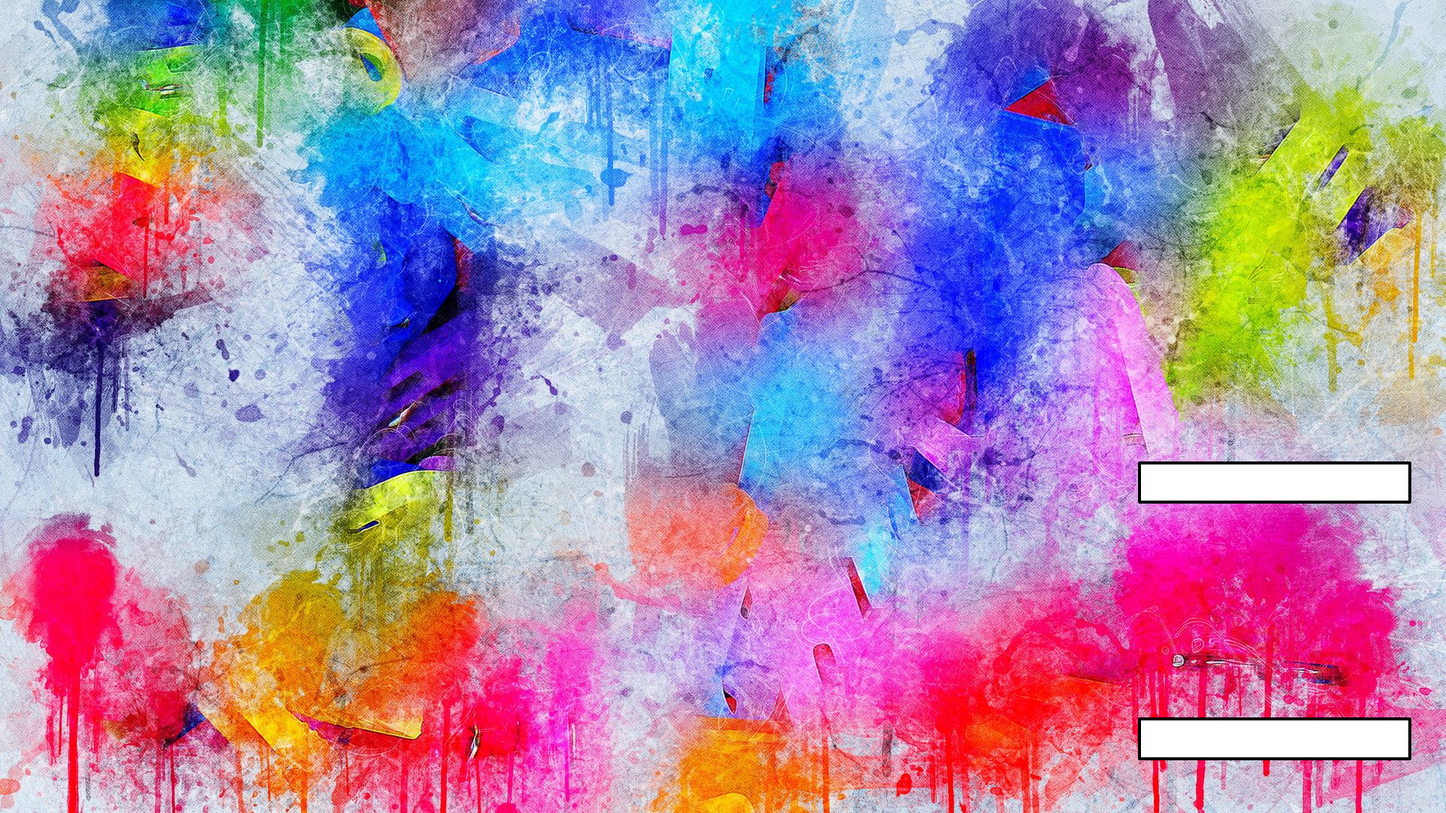
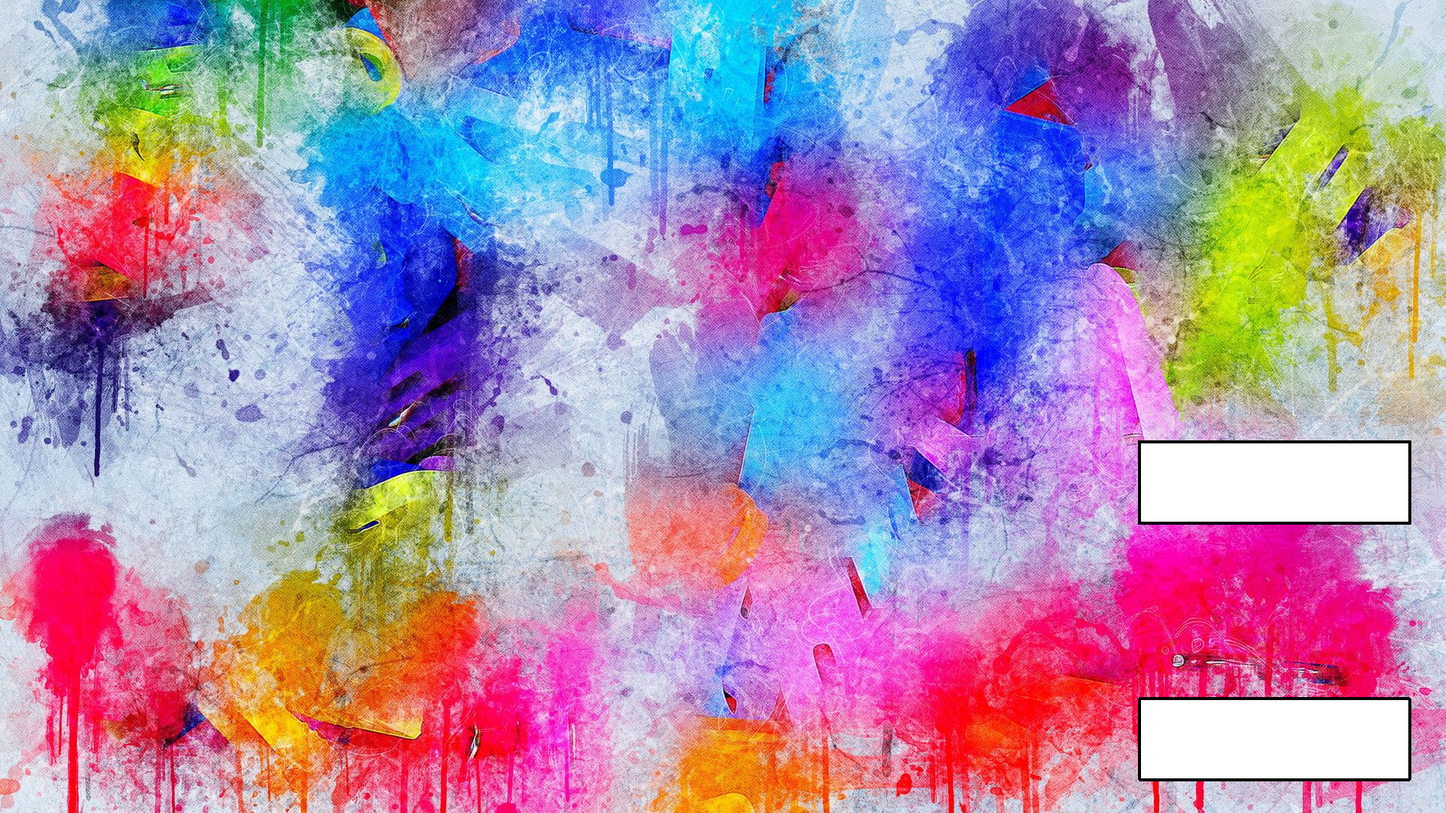
improved AI added

diff --git a/config/Boss.java b/config/Boss.java
@@ -4,21 +4,87 @@ import java.util.Random;
 import java.util.Scanner;
 
 class Player {
+    static char[][] map;
+    static int maxDist;
+    static char co;
+    private static boolean tryShootDir(int fuel, int x, int y, int dirX, int dirY){
+        int range = Math.min(maxDist,fuel);
+        x=x+2*dirX; y = y+2*dirY;
+        try {
+            for (int i = 0; i < range; i++) {
+                if (map[x][y] == 'X')return false;
+                if(map[x][y] != co && map[x][y] != '.')return true;
+                x+=dirX;y+=dirY;
+            }
+        }catch (Exception e){
+            return false;
+        }
+        return false;
+    }
+
+    private static boolean tryShoot(int id, int fuel, int x, int y){
+        if(tryShootDir(fuel,x,y,1,0)){
+            System.out.printf("SHOOT %d 2 %d%n",id,fuel);
+            return true;
+        }
+        if(tryShootDir(fuel,x,y,-1,0)){
+            System.out.printf("SHOOT %d 1 %d%n",id,fuel);
+            return true;
+        }
+        if(tryShootDir(fuel,x,y,0,1)){
+            System.out.printf("SHOOT %d 4 %d%n",id,fuel);
+            return true;
+        }
+        if(tryShootDir(fuel,x,y,0,-1)){
+            System.out.printf("SHOOT %d 3 %d%n",id,fuel);
+            return true;
+        }
+        return false;
+    }
+
+    private static boolean isValidMove(int x, int y, int dirX, int dirY){
+        x+=2*dirX;
+        y+=2*dirY;
+        try {
+            if (dirX == 0) {
+                return map[x][y] != 'X' && map[x + 1][y] != 'X' && map[x - 1][y] != 'X';
+            } else {
+                return map[x][y] != 'X' && map[x][y + 1] != 'X' && map[x][y - 1] != 'X';
+            }
+        }catch (Exception e){
+            return false;
+        }
+    }
+    private static void move(int id,int x,int y){
+        if(isValidMove(x,y, 0,co == '1'?1:-1)){
+            System.out.printf("MOVE %d %d%n",id,co == '1'? 4:3);
+            return;
+        }
+        if(isValidMove(x,y,1,0)){
+            System.out.printf("MOVE %d 2%n",id);
+            return;
+        }
+        if(isValidMove(x,y,-1,0)){
+            System.out.printf("MOVE %d 1%n",id);
+            return;
+        }
+        System.out.printf("MOVE %d %d%n",id,co == '1'? 3:4);
+    }
+
     public static void main(String[] args) {
         Scanner in = new Scanner(System.in);
         Random random = new Random();
-        int co = in.nextInt();
+        co = Integer.toString(in.nextInt()).charAt(0);
         int row = in.nextInt();
         int col = in.nextInt();
-        int dst = in.nextInt();
-        char[][] map = new char[row][col];
+        maxDist = in.nextInt();
+        map = new char[row][col];
         for (int i = 0; i < row; i++) {
             String str = in.next();
             for (int j = 0; j < col; j++) {
                 map[i][j] = str.charAt(j);
             }
         }
-        int cycle = 0;
         while (true) {
 
             int diffs = in.nextInt();
@@ -26,7 +92,6 @@ class Player {
                 int x = in.nextInt();
                 int y = in.nextInt();
                 char c = in.next().charAt(0);
-                //System.err.printf("%d %d %c%n",x,y,c);
                 map[x][y] = c;
             }
             int pawns = in.nextInt();
@@ -35,35 +100,14 @@ class Player {
                 int fuel = in.nextInt();
                 int x = in.nextInt();
                 int y = in.nextInt();
-                System.err.println(fuel);
                 for (int j = 0; j < 3; j++) {
                     String str = in.next();
-                    //System.err.println(str);
                 }
-                if (cycle % 4 == 0) {
-                    System.out.printf("SHOOT %d %d 5%n", id, cycle >= 16 ? cycle / 4 : cycle / 4 + 1);
-                } else {
-                    if(co==1){
-                        if(random.nextInt(3)==0) {
-                            System.out.printf("MOVE %d %d%n", id, 3);
-                        }else{
-                            System.out.printf("MOVE %d %d%n", id, random.nextInt(4)+1);
-                        }
-                    }else{
-                        if(random.nextInt(3)==0) {
-                            System.out.printf("MOVE %d %d%n", id, 4);
-                        }else{
-                            System.out.printf("MOVE %d %d%n", id, random.nextInt(4)+1);
-                        }
-                    }
-
+                if(!tryShoot(id,fuel,x,y)){
+                    move(id,x,y);
                 }
+            }
 
-            }
-            cycle++;
-            if (cycle >= 20) {
-                cycle -= 20;
-            }
         }
     }
 }

diff --git a/src/test/java/Player1.java b/src/test/java/Player1.java
@@ -4,21 +4,90 @@ import java.util.Scanner;
 public class Player1 {
 
 
+    static char[][] map;
+    static int maxDist;
+    static char co;
+    private static boolean tryShootDir(int fuel, int x, int y, int dirX, int dirY){
+        int range = Math.min(maxDist,fuel);
+        x=x+2*dirX; y = y+2*dirY;
+        try {
+            for (int i = 0; i < range; i++) {
+                if (map[x][y] == 'X')return false;
+                if(map[x][y] != co && map[x][y] != '.')return true;
+                x+=dirX;y+=dirY;
+                //System.err.printf("%d %d %n",x,y);
+            }
+        }catch (Exception e){
+            return false;
+        }
+        return false;
+    }
+
+    private static boolean tryShoot(int id, int fuel, int x, int y){
+        if(tryShootDir(fuel,x,y,1,0)){
+            System.out.printf("SHOOT %d 2 %d%n",id,fuel);
+            return true;
+        }
+        if(tryShootDir(fuel,x,y,-1,0)){
+            System.out.printf("SHOOT %d 1 %d%n",id,fuel);
+            return true;
+        }
+        if(tryShootDir(fuel,x,y,0,1)){
+            System.out.printf("SHOOT %d 4 %d%n",id,fuel);
+            return true;
+        }
+        if(tryShootDir(fuel,x,y,0,-1)){
+            System.out.printf("SHOOT %d 3 %d%n",id,fuel);
+            return true;
+        }
+        return false;
+    }
+
+    private static boolean isValidMove(int x, int y, int dirX, int dirY){
+        System.err.printf("%d %d %n",x,y);
+        x+=2*dirX;
+        y+=2*dirY;
+        System.err.printf("%d %d %n",x,y);
+        try {
+            if (dirX == 0) {
+                return map[x][y] != 'X' && map[x + 1][y] != 'X' && map[x - 1][y] != 'X';
+            } else {
+                return map[x][y] != 'X' && map[x][y + 1] != 'X' && map[x][y - 1] != 'X';
+            }
+        }catch (Exception e){
+            return false;
+        }
+    }
+    private static void move(int id,int x,int y){
+        if(isValidMove(x,y, 0,co == '1'?1:-1)){
+            System.out.printf("MOVE %d %d%n",id,co == '1'? 4:3);
+            return;
+        }
+        if(isValidMove(x,y,1,0)){
+            System.out.printf("MOVE %d 2%n",id);
+            return;
+        }
+        if(isValidMove(x,y,-1,0)){
+            System.out.printf("MOVE %d 1%n",id);
+            return;
+        }
+        System.out.printf("MOVE %d %d%n",id,co == '1'? 3:4);
+    }
+
     public static void main(String[] args) {
         Scanner in = new Scanner(System.in);
         Random random = new Random();
-        int co = in.nextInt();
+        co = Integer.toString(in.nextInt()).charAt(0);
         int row = in.nextInt();
         int col = in.nextInt();
-        int maxDist = in.nextInt();
-        char[][] map = new char[row][col];
+        maxDist = in.nextInt();
+        map = new char[row][col];
         for (int i = 0; i < row; i++) {
             String str = in.next();
             for (int j = 0; j < col; j++) {
                 map[i][j] = str.charAt(j);
             }
         }
-        int cycle = 0;
         while (true) {
 
             int diffs = in.nextInt();
@@ -26,7 +95,6 @@ public class Player1 {
                 int x = in.nextInt();
                 int y = in.nextInt();
                 char c = in.next().charAt(0);
-                //System.err.printf("%d %d %c%n",x,y,c);
                 map[x][y] = c;
             }
             int pawns = in.nextInt();
@@ -35,22 +103,14 @@ public class Player1 {
                 int fuel = in.nextInt();
                 int x = in.nextInt();
                 int y = in.nextInt();
-                System.err.println(fuel);
                 for (int j = 0; j < 3; j++) {
                     String str = in.next();
-                    //System.err.println(str);
                 }
-                if (cycle % 4 == 0) {
-                    System.out.printf("SHOOT %d %d 5%n", id, cycle >= 16 ? cycle / 4 : cycle / 4 + 1);
-                } else {
-                    System.out.printf("MOVE %d %d%n", id, random.nextInt(4)+1);
+                if(!tryShoot(id,fuel,x,y)){
+                    move(id,x,y);
                 }
+            }
 
-            }
-            cycle++;
-            if (cycle >= 20) {
-                cycle -= 20;
-            }
         }
     }
 }

diff --git a/src/main/java/com/codingame/game/Referee.java b/src/main/java/com/codingame/game/Referee.java
@@ -74,8 +74,8 @@ public class Referee extends AbstractReferee {
 
     private void drawHud() {
         for (Player player : gameManager.getPlayers()) {
-            int x = 1920 - 280;
-            int y = player.getIndex() == 0 ? 520 : 1080 - 220;
+            int x = 1920 - 240;
+            int y = player.getIndex() == 0 ? 500 : 1080 - 240;
 
             graphicEntityModule
                 .createRectangle()
@@ -95,9 +95,9 @@ public class Referee extends AbstractReferee {
                 .setLineWidth(0)
                 .setFillColor(0xffffff);
 
-            Text text = graphicEntityModule.createText(player.getNicknameToken())
-                .setX(x + 50)
-                .setY(y + 120)
+            Text text = graphicEntityModule.createText(player.getNicknameToken() + "\nScore: 0")
+                .setX(x + 10)
+                .setY(y + 140)
                 .setZIndex(20)
                 .setFontSize(40)
                 .setFillColor(0)
@@ -129,6 +129,10 @@ public class Referee extends AbstractReferee {
         List<String> board = state.boardInput();
         for (Player p : gameManager.getActivePlayers()) {
             p.setPawns(state.getPawnsCnt(p.getIndex()));
+            if(p.pawns == 0){
+                p.setScore(0);
+                onEnd();
+            }
             p.sendInputLine(String.valueOf(board.size()));
             board.forEach(p::sendInputLine);
             state.pawnInput(p.getIndex()).forEach(p::sendInputLine);
@@ -175,8 +179,8 @@ public class Referee extends AbstractReferee {
         Player p1 = gameManager.getPlayers().get(1);
         p0.setScore(score.get(0));
         p1.setScore(score.get(1));
-        texts.get(0).setText(p0.getNicknameToken() + " score: " + score.get(0));
-        texts.get(1).setText(p1.getNicknameToken() + " score: " + score.get(1));
+        texts.get(0).setText(p0.getNicknameToken() + "\nScore: " + score.get(0));
+        texts.get(1).setText(p1.getNicknameToken() + "\nScore: " + score.get(1));
     }
 
     @Override

diff --git a/src/main/java/com/codingame/game/GameState.java b/src/main/java/com/codingame/game/GameState.java
@@ -49,8 +49,8 @@ public class GameState {
         int cellSize = getCellSize();
         int bigOrigX = (1080 - board.rows * cellSize) / 2;
         int bigOrigY = 10;
-        int c1D = 0xd1c004;
-        int c2D = 0x0880bf;
+        int c1D = 0xd79a1c;
+        int c2D = 0x0823bf;
         board.drawInit(bigOrigX, bigOrigY, cellSize, cellLineColor, c1, c2);
         pawns.forEach(pawn -> pawn.drawInit(bigOrigX, bigOrigY, cellSize, pawnLineColor, graphicEntityModule, c1D, c2D));
     }
